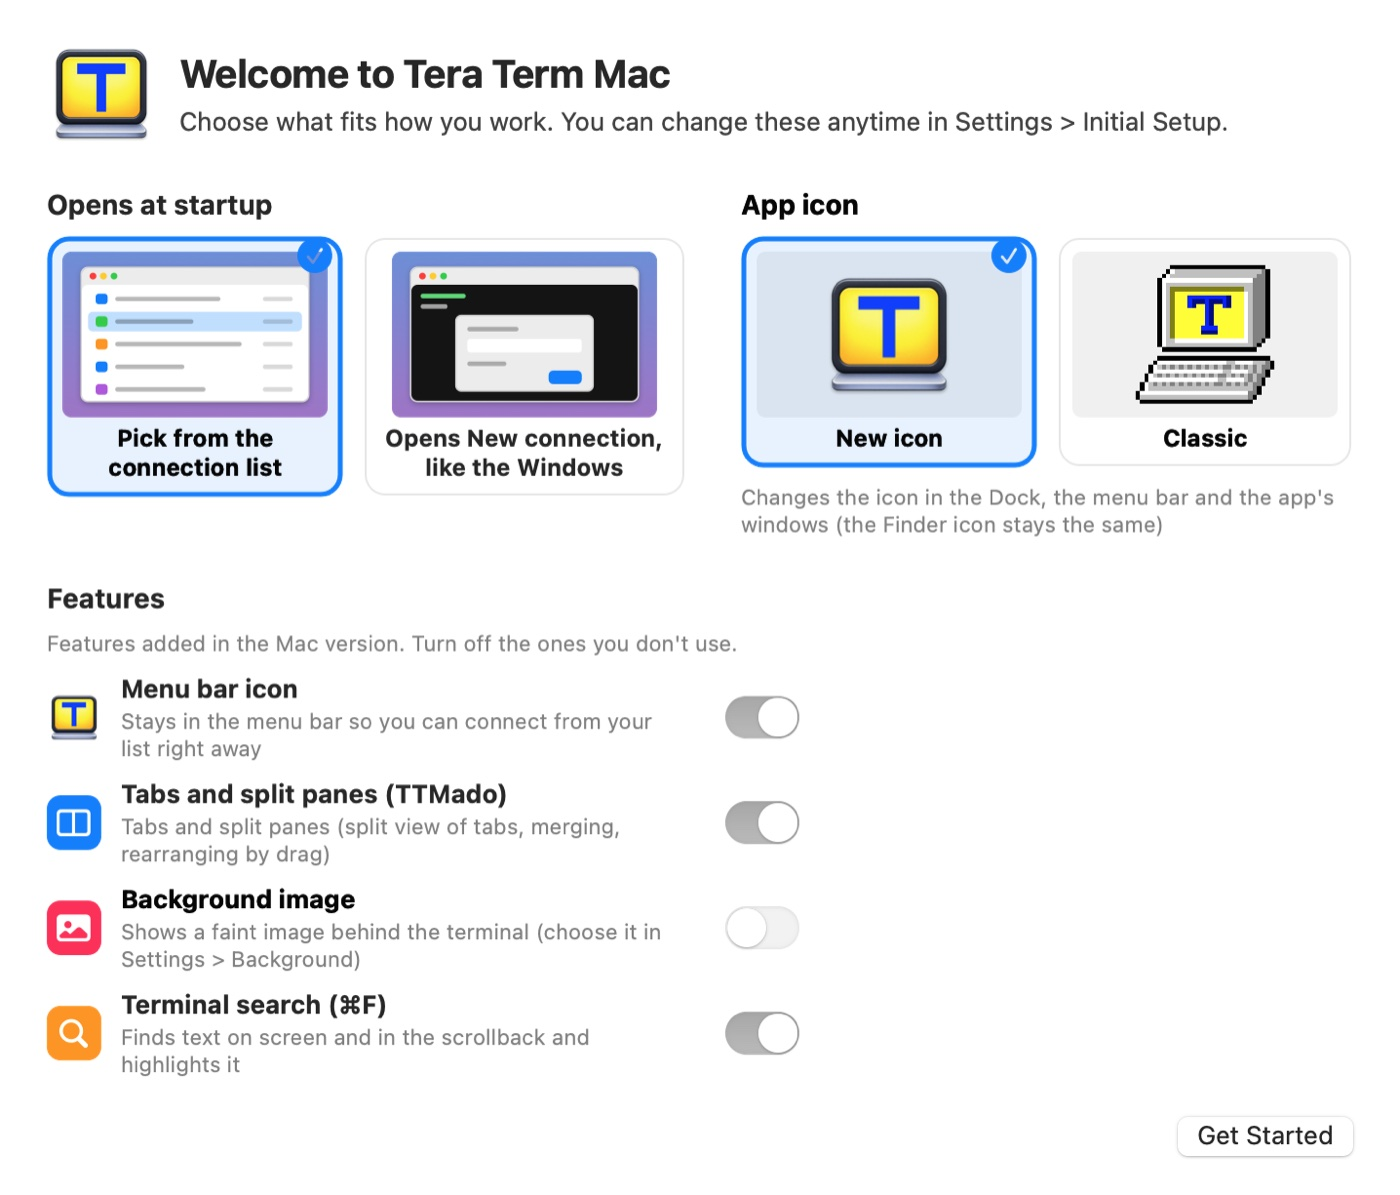
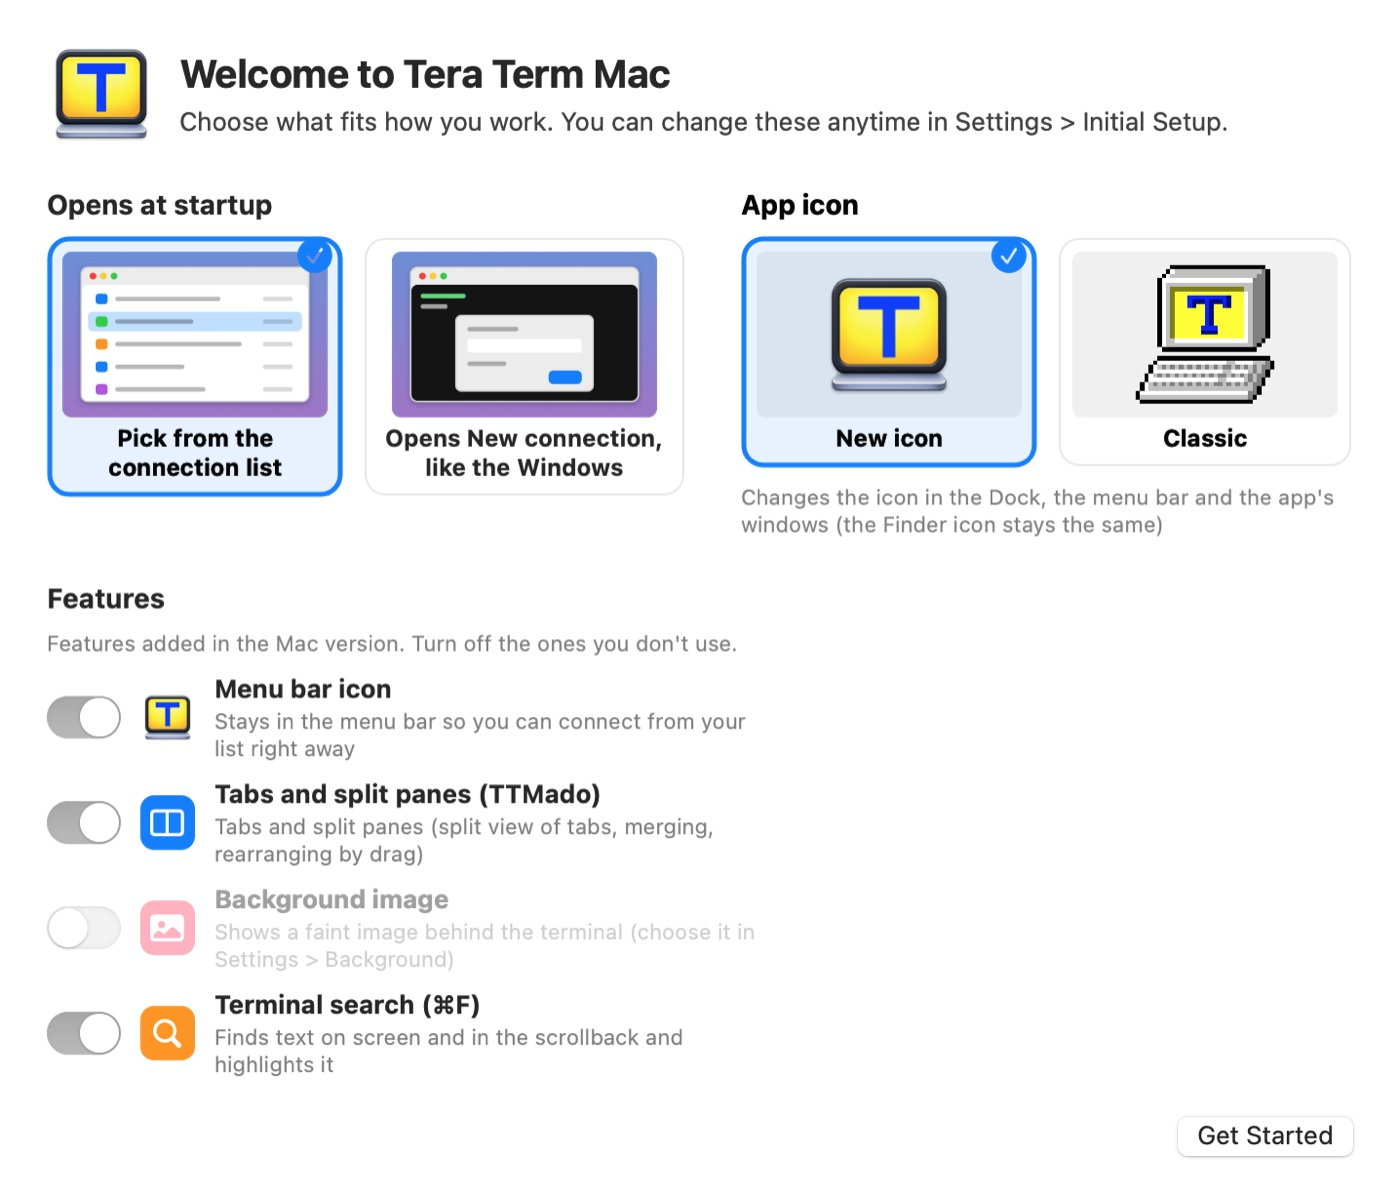
0.8.3: 初期設定の「使う機能」のスイッチを左に、切はうす暗く

Changed region(s): [[0.0307, 0.5573, 0.5529, 0.8979], [0.5221, 0.836, 0.5529, 0.8979]]

diff --git a/macos/Sources/TeraMac/SetupWelcome.swift b/macos/Sources/TeraMac/SetupWelcome.swift
@@ -286,8 +286,11 @@ final class FeatureSwitchRow: NSStackView {
     var onChange: ((Bool) -> Void)?
     var isOn: Bool {
         get { Self.state(of: control) }
-        set { Self.set(control, newValue) }
+        set { Self.set(control, newValue); updateDim() }
     }
+    /// 切のときは、その行のアイコンと説明をうす暗くする
+    private var dimmed: [NSView] = []
+    private func updateDim() { for v in dimmed { v.alphaValue = isOn ? 1 : 0.38 } }
 
     init(icon: NSImage?, title: String, detail: String) {
         if #available(macOS 10.15, *) { control = NSSwitch() } else { control = NSButton(checkboxWithTitle: "", target: nil, action: nil) }
@@ -314,13 +317,16 @@ final class FeatureSwitchRow: NSStackView {
         control.target = self
         control.action = #selector(toggled)
         control.setAccessibilityLabel(title)
+        // スイッチは左に (右の端だと、どの行のものか分かりにくいため)
+        addArrangedSubview(control)
         addArrangedSubview(iv)
         addArrangedSubview(texts)
-        addArrangedSubview(control)
+        dimmed = [iv, texts]
+        updateDim()
     }
     required init?(coder: NSCoder) { fatalError() }
 
-    @objc private func toggled() { onChange?(isOn) }
+    @objc private func toggled() { updateDim(); onChange?(isOn) }
 
     private static func state(of c: NSControl) -> Bool {
         if #available(macOS 10.15, *), let s = c as? NSSwitch { return s.state == .on }
